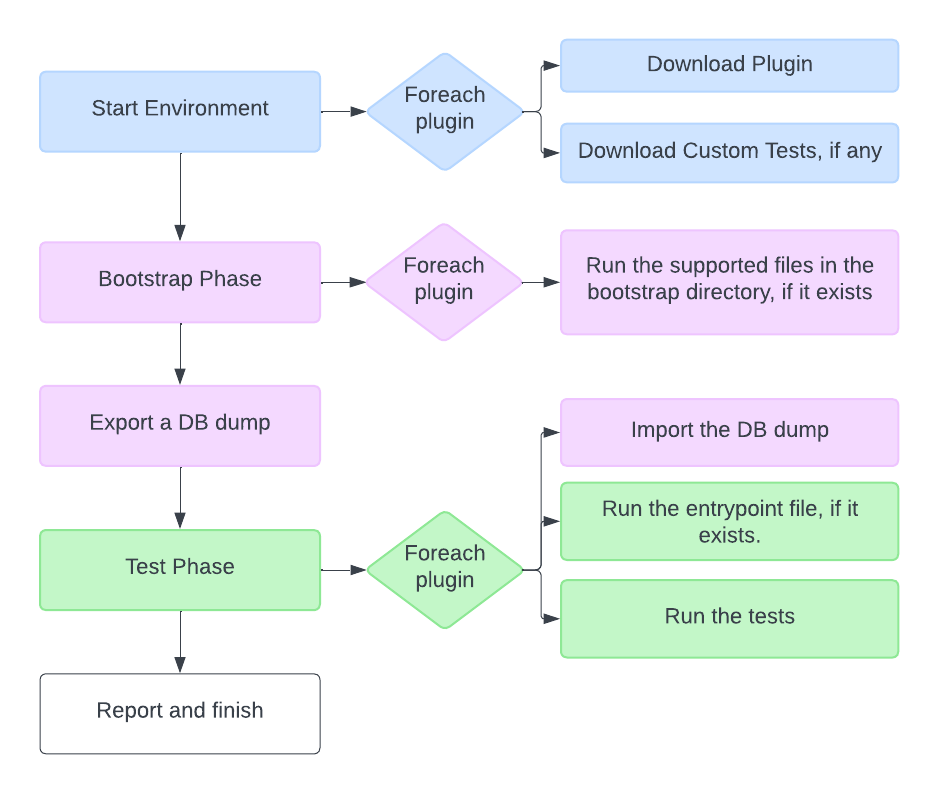
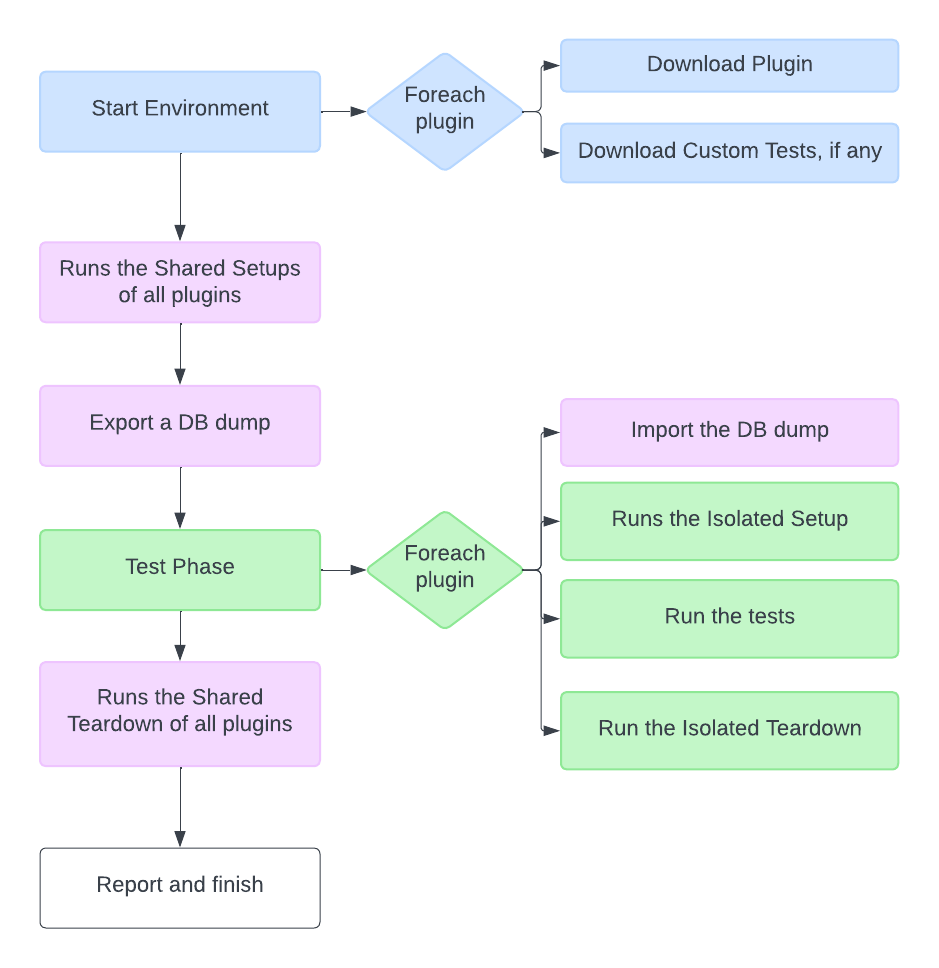
Orchestration/lifecycle docs

diff --git a/docs/custom-tests/04-understanding-lifecycle.md b/docs/custom-tests/04-understanding-lifecycle.md
@@ -1,0 +1,104 @@
+import CustomTestsDiagram from '@site/src/img/custom-tests-diagram.png';
+
+# Understanding the Lifecycle
+
+:::info
+The custom E2E tests feature is available as early-access.
+:::
+
+## Introduction
+
+The lifecycle of a custom E2E test consists of several phases that ensure the environment is set up correctly, tests are run, and the environment is cleaned up afterward. Understanding the lifecycle is crucial for writing effective tests and ensuring that your plugin is compatible with other plugins.
+
+## Phases of the Lifecycle
+
+The lifecycle of a custom E2E test can be broken down into several phases:
+
+1. **Starting the Environment**
+2. **Installing Additional Dependencies**
+3. **Shared Setup**
+4. **DB Export** 
+5. **(Foreach plugin) DB Import** 
+6. **(Foreach plugin) Isolated Setup**
+7. **(Foreach plugin) Test Phase**
+8. **(Foreach plugin) Teardown Phase**
+9. **Shared Teardown**
+10. **Post-Processing, reports, etc**
+
+Any change a plugin does in the shared setup persists for the whole test suite. Any change a plugin does in the isolated setup persists only for the plugin's test suite.
+
+This progressive structure allows for a systematic approach to testing, especially compatibility tests between plugins. The diagram below illustrates the lifecycle of a custom E2E test:
+
+<img src={CustomTestsDiagram}/>
+
+## Files of the Lifecycle
+
+The lifecycle is managed through the files inside the `bootstrap` directory. Refer to [Generating Tests](generating-tests) for more information on scaffolding tests.
+
+## 1. Starting the Environment
+
+Before diving into the setup phases, the system prepares the testing environment:
+
+- **Start Environment**: Spins up a docker-based WordPress environment with the necessary PHP version, etc.
+- **Download Plugins and Themes**: All necessary plugins and themes are downloaded.
+- **Install WordPress**: WordPress is installed within the Docker environment.
+- **Activate Plugins**: Plugins are activated.
+- **Move Must-Use Plugins**: Any must-use plugins of the plugins under test are moved to the appropriate directory.
+
+2. Installing Additional Dependencies
+
+If your tests require additional NPM packages, you can declare them in the `dependencies.json` file. These dependencies are installed before running the tests. This is a JSON array of strings, eg:
+
+```json
+[
+  "uuid",
+  "lodash"
+]
+```
+
+It's preferable to avoid adding dependencies if possible, as they can conflict with other plugins dependencies.
+
+## 2. Shared Setup Phase
+
+The **Shared Setup Phase** involves setting up shared resources or configurations that are common across all plugins. This phase ensures that all plugins have access to the same environment and data before running their tests.
+
+### What to Include in the Shared Setup Phase
+
+- **Get rid of onboarding wizards**: If your plugin has an onboarding wizard, configure it to prevent it from appearing during tests.
+- **Disable Data Consent Forms**: Remove any data consent prompts or initial setup screens.
+- **Configure or Mock External Services**: If your plugin integrates with external services, enable a development mode or mock external requests.
+
+## 3. DB Export and Import
+
+The DB export and import is handled automatically for you.
+
+## 4. Isolated Setup Phase
+
+The **Isolated Setup Phase** is responsible for setting up the environment specific to each plugin before running its tests. This phase ensures that each plugin has a clean slate to work with and doesn't interfere with other plugins' tests.
+
+### What to Include in the Isolated Setup Phase
+
+- **Install Themes**: If your tests require a specific theme, **install** it during this phase so it’s available during the Test Phase.
+- **Activate Plugins**: Activate the plugin you are testing.
+- **Customize WordPress Settings**: Configure WordPress settings specific to your plugin's tests.
+- **Add Test Data**: Insert any test data or configurations required for your plugin's tests.
+
+## 5. Test Phase
+
+The **Test Phase** is where the actual testing happens. This is where you interact with the browser, verify your plugin's functionality, and check for any compatibility issues with other plugins.
+
+## 6. Teardown Phase
+
+The **Teardown Phase** runs after your tests are completed. You can use it to clean up any resources or configurations set during the setup phase.
+
+### What to Include in the Teardown Phase
+
+- **Reset Mock Services**: Reset any mocks or stubs used for external services.
+
+## 7. Shared Teardown
+After all plugin tests are completed, the **Shared Teardown** phase cleans up any shared resources or configurations set during the Shared Setup phase.
+
+## Environment Variables
+You can use environment variables in your tests to pass secrets or configurations without hardcoding them.Refer to the [Environment Variables](https://chatgpt.com/docs/environment/environment-variables) documentation for more information.
+
+By structuring your documentation in this progressive manner, readers can build their understanding step by step. Starting with the basic setup and teardown processes, and then introducing shared setup and teardown concepts, allows users to grasp the foundational elements before moving on to more complex configurations.If you need further assistance or have any questions about implementing these phases, feel free to ask!

diff --git a/docs/custom-tests/03-running-tests.md b/docs/custom-tests/03-running-tests.md
@@ -27,7 +27,7 @@ Replace "example-plugin" with the slug of an extension you own.
 
 ## Using a config file
 
-Place a `qit-env.json` or `qit-env.yml` file in the directory you run `qit run:e2e` from.
+Place a `qit.json` or `qit.yml` file in the directory you run `qit run:e2e example-plugin` from.
 
 Here's an example of a complex config file:
 
@@ -109,7 +109,7 @@ You can also mimick this entire config file using only runtime parameters.
 Suppose you are scripting a test run and want to pass everything as parameters:
 
 ```qitbash
-qit run:e2e qit-the-beaver ~/my-plugins/example-plugin/tests --source ~/.qit/plugins/example-plugin \
+qit run:e2e example-plugin ~/my-plugins/example-plugin/tests --source ~/.qit/plugins/example-plugin \
   --wp nightly \
   --php-version 8.3 \
   --object-cache \
@@ -156,19 +156,19 @@ qit run:e2e example-plugin --plugin https://github.com/woocommerce/example-plugi
 Directory as `source`:
 
 ```qitbash
-qit run:e2e qit-the-beaver --source ~/my-plugins/example-plugin
+qit run:e2e example-plugin --source ~/my-plugins/example-plugin
 ```
 
 Zip file as `source`:
 
 ```qitbash
-qit run:e2e qit-the-beaver --source ~/my-plugins/example-plugin/example-plugin.zip
+qit run:e2e example-plugin --source ~/my-plugins/example-plugin/example-plugin.zip
 ```
 
 URL as `source`:
 
 ```qitbash
-qit run:e2e qit-the-beaver --source https://github.com/woocommerce/example-plugin/releases/tag/example-plugin.zip
+qit run:e2e example-plugin --source https://github.com/woocommerce/example-plugin/releases/tag/example-plugin.zip
 ```
 
 
@@ -179,25 +179,25 @@ If you have a test that you haven't uploaded yet, you can run it directly:
 Slug as `source`, directory as `test-tags`:
 
 ```qitbash
-qit run:e2e qit-the-beaver ~/my-plugins/example-plugin/tests
+qit run:e2e example-plugin ~/my-plugins/example-plugin/tests
 ```
 
 Directory as `source`, directory as `test-tags`:
 
 ```qitbash
-qit run:e2e qit-the-beaver ~/my-plugins/example-plugin/tests --source ~/my-plugins/example-plugin
+qit run:e2e example-plugin ~/my-plugins/example-plugin/tests --source ~/my-plugins/example-plugin
 ```
 
 Zip file as `source`, directory as `test-tags`:
 
 ```qitbash
-qit run:e2e qit-the-beaver ~/my-plugins/example-plugin/tests --source ~/my-plugins/example-plugin/build.zip
+qit run:e2e example-plugin ~/my-plugins/example-plugin/tests --source ~/my-plugins/example-plugin/build.zip
 ```
 
 URL as `source`, directory as `test-tags`:
 
 ```qitbash
-qit run:e2e qit-the-beaver ~/my-plugins/example-plugin/tests --source https://github.com/woocommerce/example-plugin/releases/tag/nightly.zip
+qit run:e2e example-plugin ~/my-plugins/example-plugin/tests --source https://github.com/woocommerce/example-plugin/releases/tag/nightly.zip
 ```
 
 ## Using test tags
@@ -217,21 +217,21 @@ qit run:e2e example-plugin nightly,foo-feature
 And you can run a test with a tag from a local directory, file, or URL:
 
 ```qitbash
-qit run:e2e qit-the-beaver nightly,foo-feature --source ~/my-plugins/example-plugin
+qit run:e2e example-plugin nightly,foo-feature --source ~/my-plugins/example-plugin
 ```
 
 ```qitbash
-qit run:e2e qit-the-beaver nightly,foo-feature --source ~/my-plugins/example-plugin/example-plugin.zip
+qit run:e2e example-plugin nightly,foo-feature --source ~/my-plugins/example-plugin/example-plugin.zip
 ```
 
 ```qitbash
-qit run:e2e qit-the-beaver nightly,foo-feature --source https://github.com/woocommerce/example-plugin/releases/tag/example-plugin.zip
+qit run:e2e example-plugin nightly,foo-feature --source https://github.com/woocommerce/example-plugin/releases/tag/example-plugin.zip
 ```
 
 And even run a local test in the mix:
 
 ```qitbash
-qit run:e2e qit-the-beaver ~/my-plugins/example-plugin/tests,nightly,foo-feature --source ~/my-plugins/example-plugin
+qit run:e2e example-plugin ~/my-plugins/example-plugin/tests,nightly,foo-feature --source ~/my-plugins/example-plugin
 ```
 
 ## Testing plugins that require a live site

diff --git a/docs/custom-tests/01-generating-tests.md b/docs/custom-tests/01-generating-tests.md
@@ -16,14 +16,15 @@ This will create a basic E2E test in the `e2e` directory with essentially a `exa
 
 ```
 bootstrap (Optional)
-    bootstrap.sh
-    bootstrap.php
+    setup.js
+    setup.sh
+    dependencies.json
     mu-plugin.php
 example.spec.js
 ```
 
 :::tip
-Bootstrap files are optional and can be removed if not needed. [Learn more about bootstrapping](/docs/custom-tests/bootstrap-and-test-phases) and its use cases.
+Bootstrap files are optional and can be removed if not needed. [Learn more about bootstrapping](/docs/custom-tests/understanding-lifecycle) and its use cases.
 :::
 
 You can run your first test locally with:
@@ -35,6 +36,33 @@ qit run:e2e <your-plugin> ./e2e
 ```
 
 You can then expand it with more tests, or even generate tests with Playwright Codegen.
+
+## Advanced Scaffolding
+
+When scaffolding, you can also include shared setups and teardowns. Refer to the [Understanding Lifecycle](/docs/custom-tests/understanding-lifecycle) documentation for more information.
+
+```qitbash
+qit scaffold:e2e ./e2e --with-shared --with-teardown
+```
+
+This will give you the following structure:
+
+```
+bootstrap
+    setup.js (Playwright file that runs in isolation before your tests)
+    setup.sh (Bash file that runs in isolation before your tests)
+    shared-setup.js (Playwright file that runs before all tests in a compatibility test)
+    shared-setup.sh (Bash file that runs before all tests in a compatibility test)
+    shared-teardown.js (Playwright file that runs after all tests in a compatibility test)
+    shared-teardown.sh (Bash file that runs after all tests in a compatibility test)
+    teardown.js (Playwright file that runs in isolation after your tests)
+    teardown.sh (Bash file that runs in isolation after your tests)
+example.spec.js
+```
+
+When you run a compatibility test (eg: `qit run:e2e example-plugin --plugin example-plugin:test`), a database snapshot is taken after the shared setup, and restored for each plugin test. The shared teardown is run after all tests are done.
+
+Anything you do in your isolated setup and teardown files will only affect your plugin's test environment. Anything you do in the shared setup and teardown files will affect all tests in the compatibility test.
 
 ## Codegen
 
@@ -53,7 +81,6 @@ It essentially records your interactions with the browser and generates the code
 ### Adjusting Codegen URLs
 
 When you generate tests with `--codegen`, they will be generated with the URLs you visited during the recording, eg:
-
 
 #### How Codegen generates it:
 

diff --git a/docs/environment/04-installing-plugins-other-sources.md b/docs/environment/04-installing-plugins-other-sources.md
@@ -32,7 +32,7 @@ We assume for the purposes of simplicity that the GitHub pepository is a WordPre
 
 Example command: `qit env:up --requires=public-handler.php --plugins=my-public-plugin`
 
-Or just `qit env:up` if you have this `qit-env.yml` file:
+Or just `qit env:up` if you have this `qit.yml` file:
 
 ```yaml
 plugins:
@@ -91,7 +91,7 @@ This example is similar to the previous one, but it assumes that the GitHub repo
 
 Example command: `qit env:up --requires=private-handler.php --plugins=my-private-plugin`
 
-Or just `qit env:up` if you have this `qit-env.yml` file:
+Or just `qit env:up` if you have this `qit.yml` file:
 
 ```yaml
 plugins:
@@ -172,7 +172,7 @@ You can get really creative with custom handlers. In this example, we will:
 
 Example command: `qit env:up --requires=advanced-handler.php --plugins=my-advanced-plugin`
 
-Or just `qit env:up` if you have this `qit-env.yml` file:
+Or just `qit env:up` if you have this `qit.yml` file:
 
 ```yaml
 plugins:
@@ -349,7 +349,7 @@ requires:
 
 You can use multiple custom handlers by including them in your config files, or at runtime with the `--requires` option in the QIT command. For example:
 
-`qit-env.yml`
+`qit.yml`
 
 ```yaml
 plugins:

diff --git a/docs/custom-tests/02-tagging-tests.md b/docs/custom-tests/02-tagging-tests.md
@@ -6,9 +6,11 @@ The custom E2E tests feature is available as early-access.
 
 ## Introduction
 
-You can use test tags to run specific tests from a plugin/theme.
+You can publish your tests to QIT so that other developers can use it to run compatibility tests with their own extensions.
 
-Each extension can have one or multiple test tags, and we also offer some generic tests that can be used by any plugin/theme.
+Similarly, you can run other developers' tests to ensure that your extension is compatible with theirs.
+
+One plugin can have multiple test tags, which can be used to run different sets of tests.
 
 ## Listing available test tags
 

diff --git a/docs/environment/02-creating-config-files.md b/docs/environment/02-creating-config-files.md
@@ -13,7 +13,7 @@ In the QIT Local Test Environment, configuration files are a powerful way to pre
 ### 1. File format
 
 - **JSON or YAML**: You can create configuration files in either JSON or YAML format.
-- **Naming**: Name your file `qit-env.json` or `qit-env.yml`. For overrides, use `qit-env.override.json` or `qit-env.override.yml`.
+- **Naming**: Name your file `qit.json` or `qit.yml`. For overrides, use `qit.override.json` or `qit.override.yml`.
 
 ### 2. Configuration options
 

diff --git a/docs/environment/01-getting-started.md b/docs/environment/01-getting-started.md
@@ -63,7 +63,7 @@ This will create an environment with PHP 8.3 on WordPress RC version, with Guten
 
 ## Using configuration files
 
-Create a `qit-env.yml` file in your project directory with the following content:
+Create a `qit.yml` file in your project directory with the following content:
 
 ```yaml
 wordpress_version: rc
